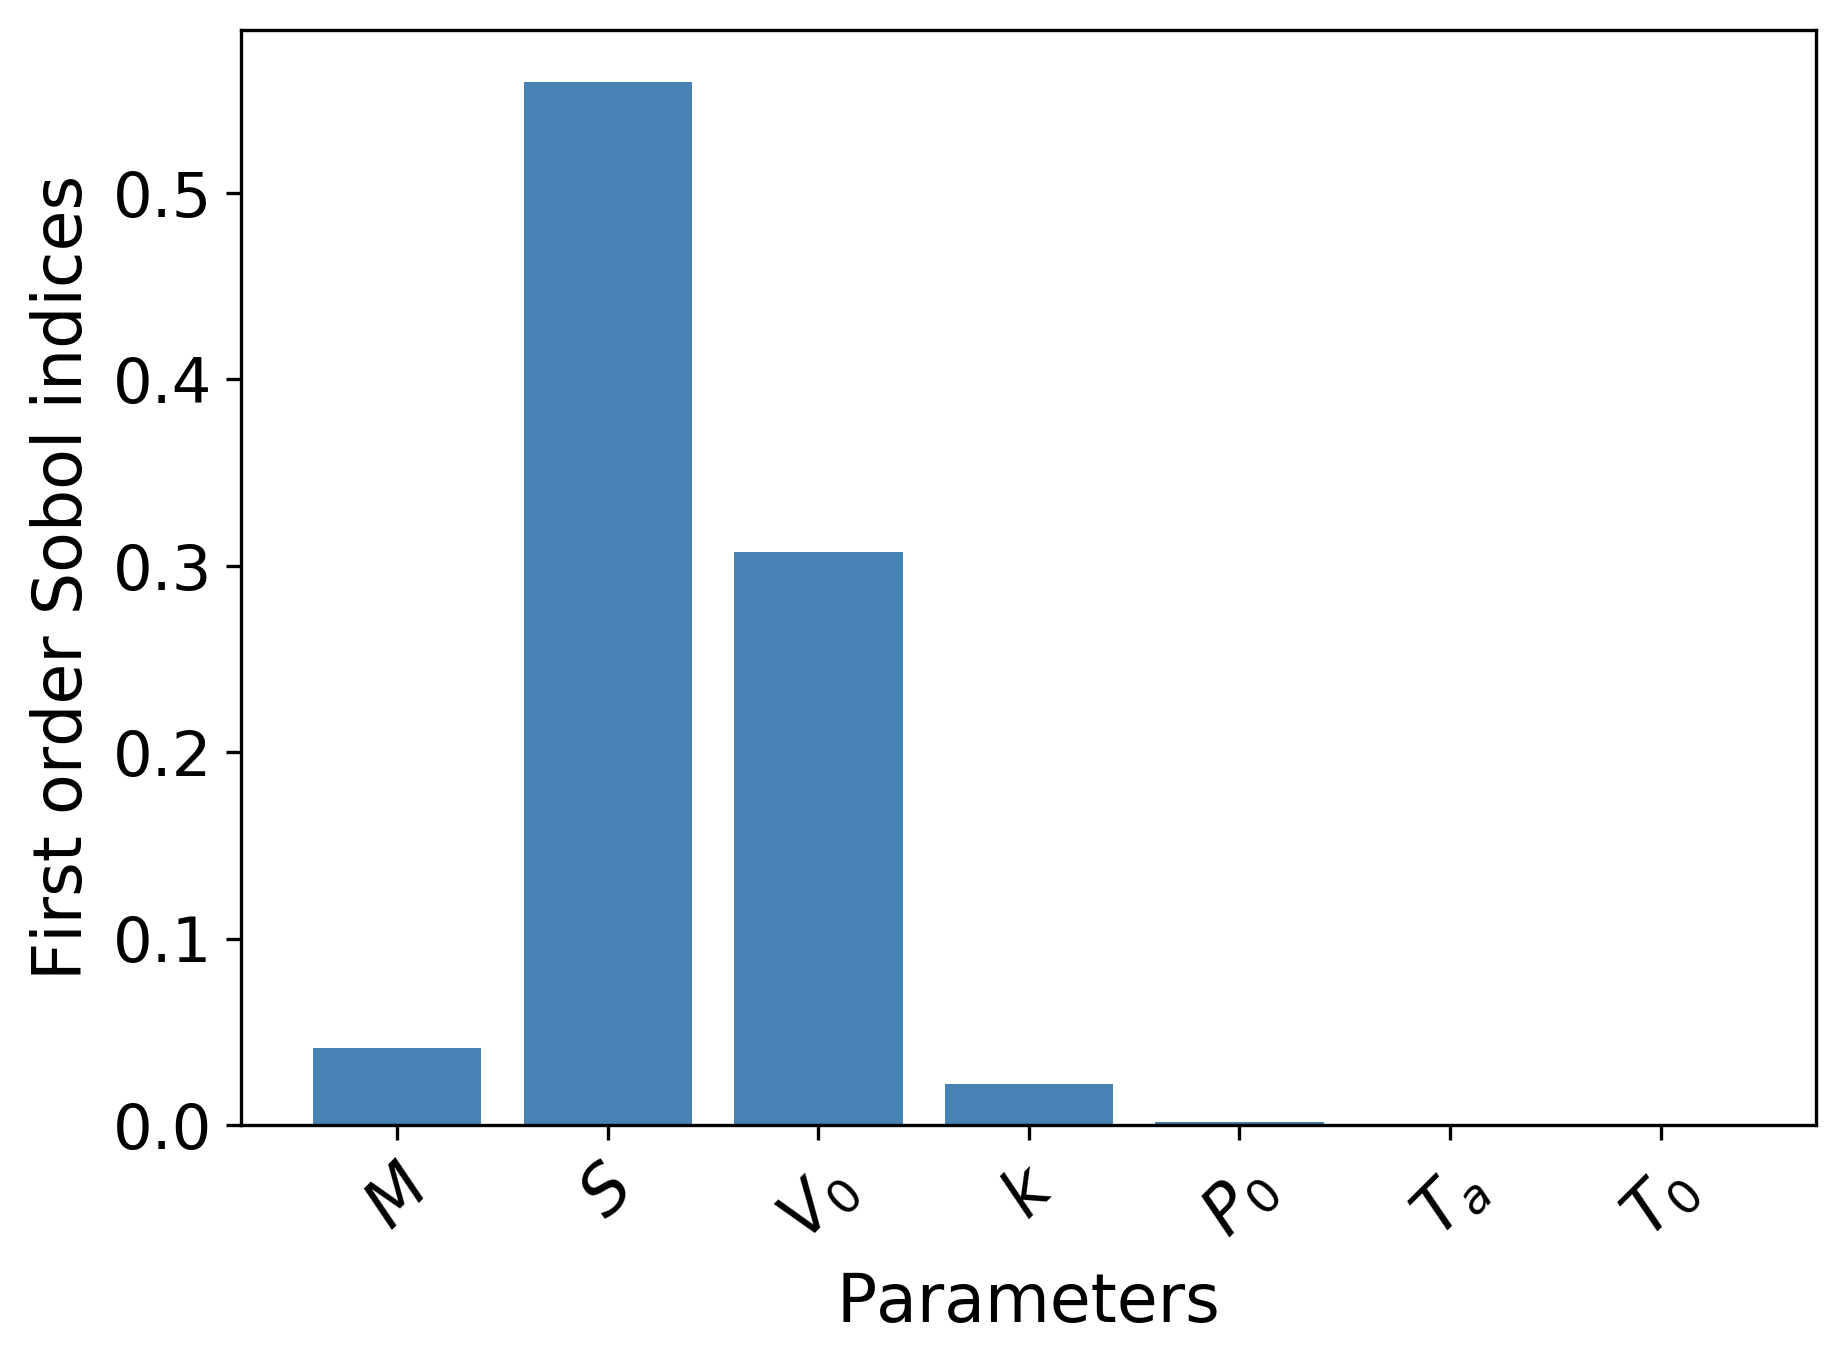
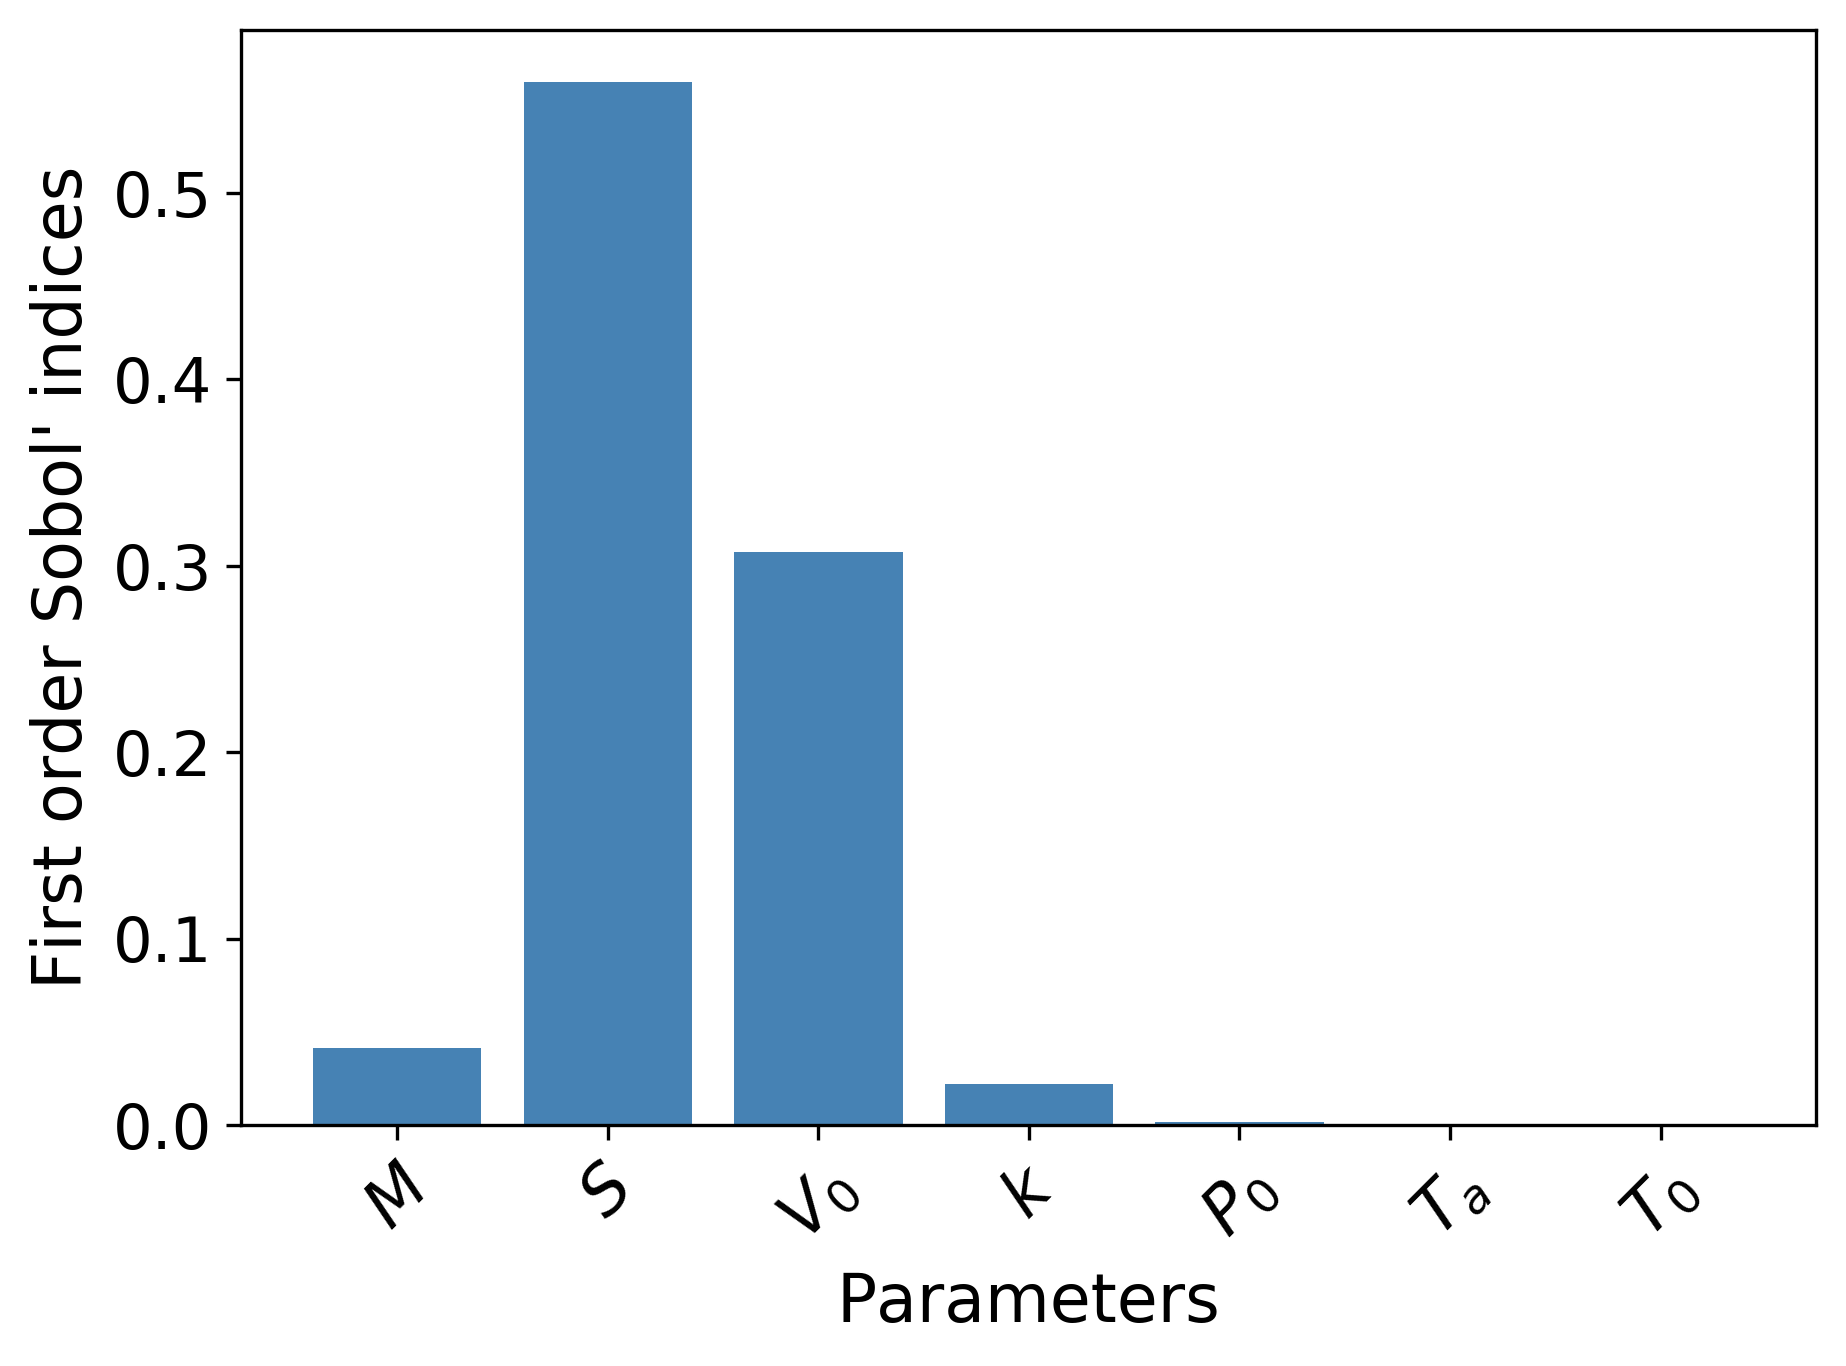
A few more changes to the sobol indices tutorial

Changed region(s): [[0.0, 0.123, 0.0618, 0.7379]]

diff --git a/source/_documentation/codes/tutorial_9.py b/source/_documentation/codes/tutorial_9.py
@@ -40,7 +40,7 @@ for i in range(0, len(sobol)):
 ax.set_axisbelow(True)
 #adjust_spines(ax, ['left', 'bottom'])
 plt.xlabel(r'Parameters', fontsize=16)
-plt.ylabel(r'First order Sobol indices', fontsize=16)
+plt.ylabel(r"First order Sobol' indices", fontsize=16)
 xTickMarks = [r'$M$', r'$S$', r'$V_0$', r'$k$', r'$P_0$', r'$T_a$', r'$T_0$']
 ax.set_xticks(data_1+0.10)
 xtickNames = ax.set_xticklabels(xTickMarks)
@@ -50,4 +50,4 @@ plt.savefig('../Figures/tutorial_9_fig_a.png', dpi=300, bbox_inches='tight',pad_
 
 sobol_2nd = mypoly.get_sobol_indices(2)
 for key, value in sobol_2nd.items():
-    print(str('Parameter numbers: ')+str(key)+', Sobol index value: '+str(value))
+    print(str('Parameter numbers: ')+str(key)+", Sobol' index value: "+str(value))
